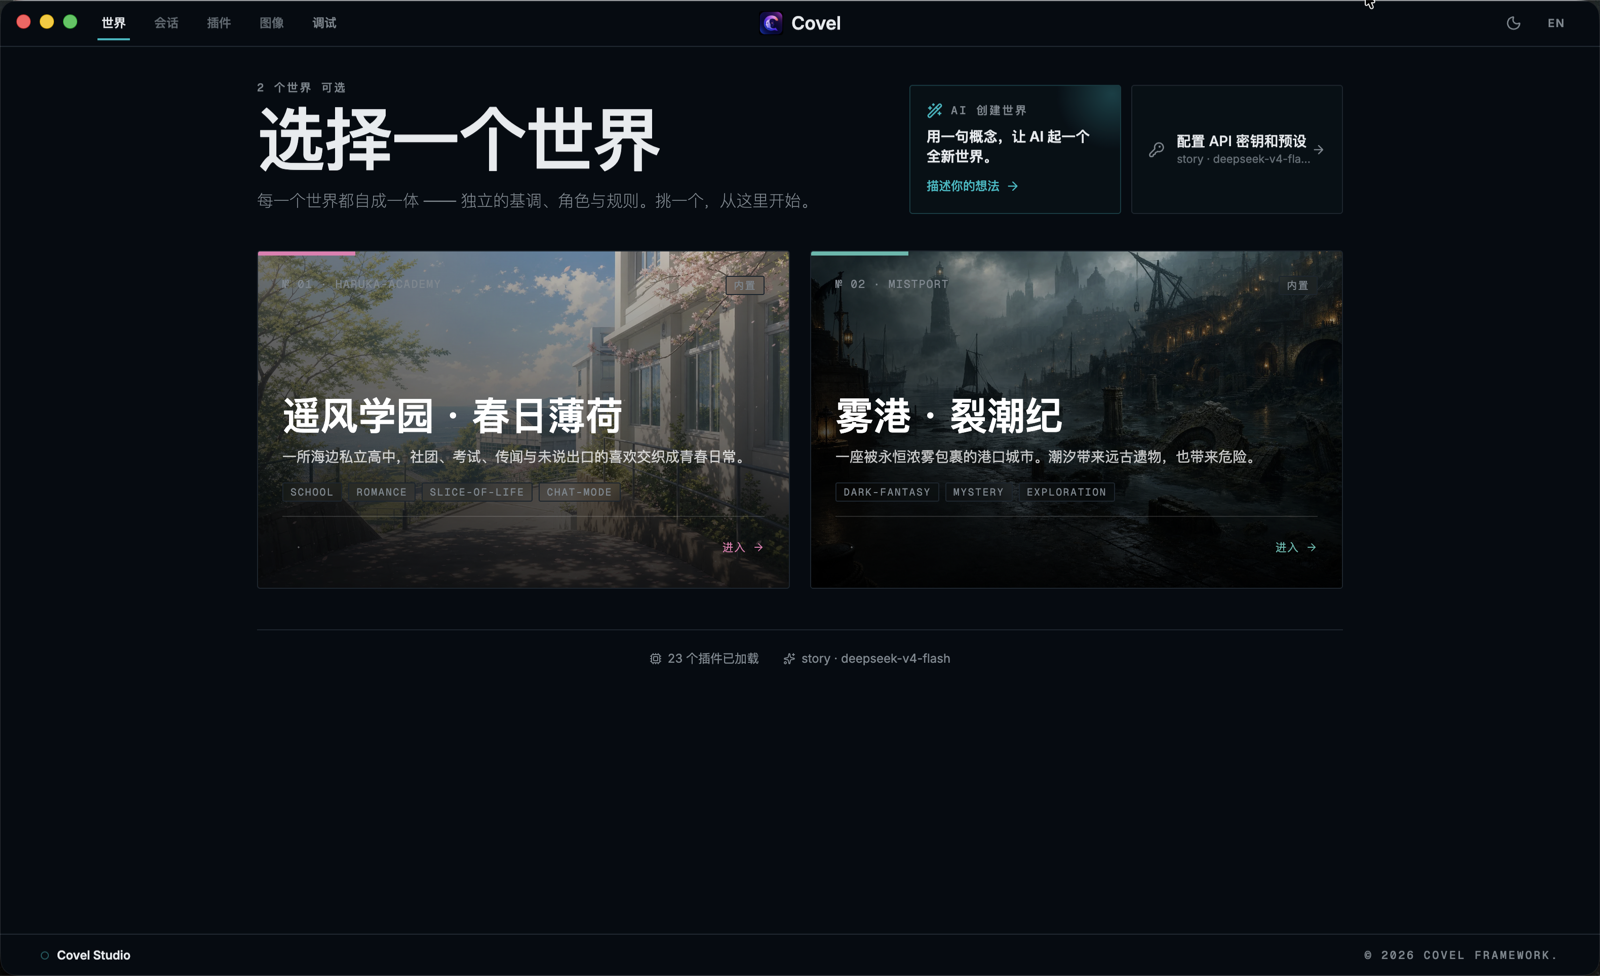
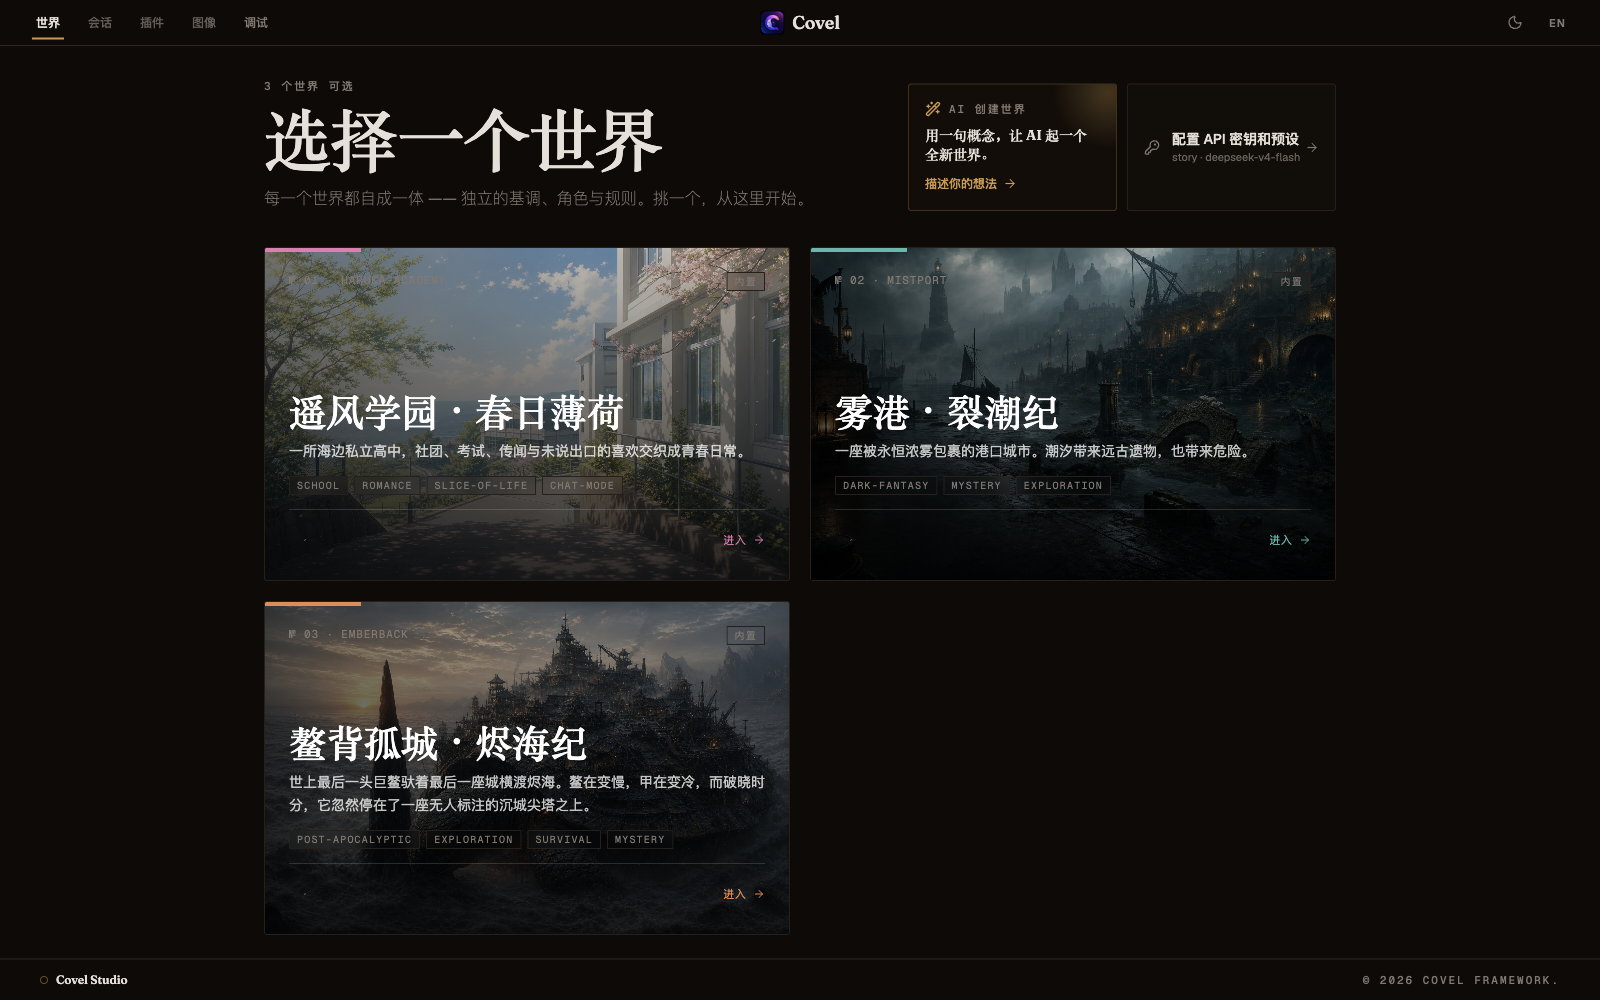
docs(readme): refresh screenshots for the RPG suite
The world-select shot still showed two worlds; Emberback has shipped
since. Story mode was captured mid-generation with an empty right half.

- select-world: all three bundled worlds
- text-mode: suggested actions, a critical-success receipt, and the
  expanded 11-runtime turn timeline with per-runtime timings
- rpg-systems (new): a dice check, quest progress, and a gear change
  posting into the turn, with the quest log open alongside

Adds a short section around the new figure explaining that the dice are
rolled before the narrator writes, so an outcome cannot be retconned to
fit the prose. Story-mode caption now says "suggested actions" to match
what the refreshed screenshot shows.

All shots are from a live Emberback session (1600x1000, matching the
existing set).

diff --git a/README.md b/README.md
@@ -26,12 +26,18 @@ Covel is an AI RPG where the world keeps running between your turns: NPCs track 
 
 ## Two ways to play
 
-|                                 Stage mode (visual novel)                                  |                                     Story mode (text)                                      |
-| :----------------------------------------------------------------------------------------: | :----------------------------------------------------------------------------------------: |
-|                   ![Stage mode](./.assets/images/readme/stage-mode.png)                    |                    ![Story mode](./.assets/images/readme/text-mode.png)                    |
-| Backdrops, sprites, and typewriter dialog; scene art resolves and generates as you explore | Classic narrated turns with inline choices, forms, and the per-turn agent timeline visible |
+|                                 Stage mode (visual novel)                                  |                                      Story mode (text)                                       |
+| :----------------------------------------------------------------------------------------: | :------------------------------------------------------------------------------------------: |
+|                   ![Stage mode](./.assets/images/readme/stage-mode.png)                    |                     ![Story mode](./.assets/images/readme/text-mode.png)                     |
+| Backdrops, sprites, and typewriter dialog; scene art resolves and generates as you explore | Classic narrated turns with suggested actions, inline forms, and the per-turn agent timeline |
 
 Worlds declare their default (`defaultViewMode: stage`); you can switch any time in-session.
+
+## Every roll leaves a receipt
+
+![A dice check, quest progress, and a gear change posting into the turn, with the quest log open alongside](./.assets/images/readme/rpg-systems.png)
+
+A risky action resolves against dice rolled **before** the narrator writes, so the outcome cannot be retconned to fit the prose — and the arithmetic posts inline: `19 + 2 = 21 vs DC 16`. Quest progress, gear changes, and affinity shifts land in the turn the same way, then accumulate into their own panels. Dice, quests, inventory, and affinity are four separate plugins; a world seeds the opening quests, starting gear, and initial affinity, or ships without any of them.
 
 ## What the agents leave behind
 
